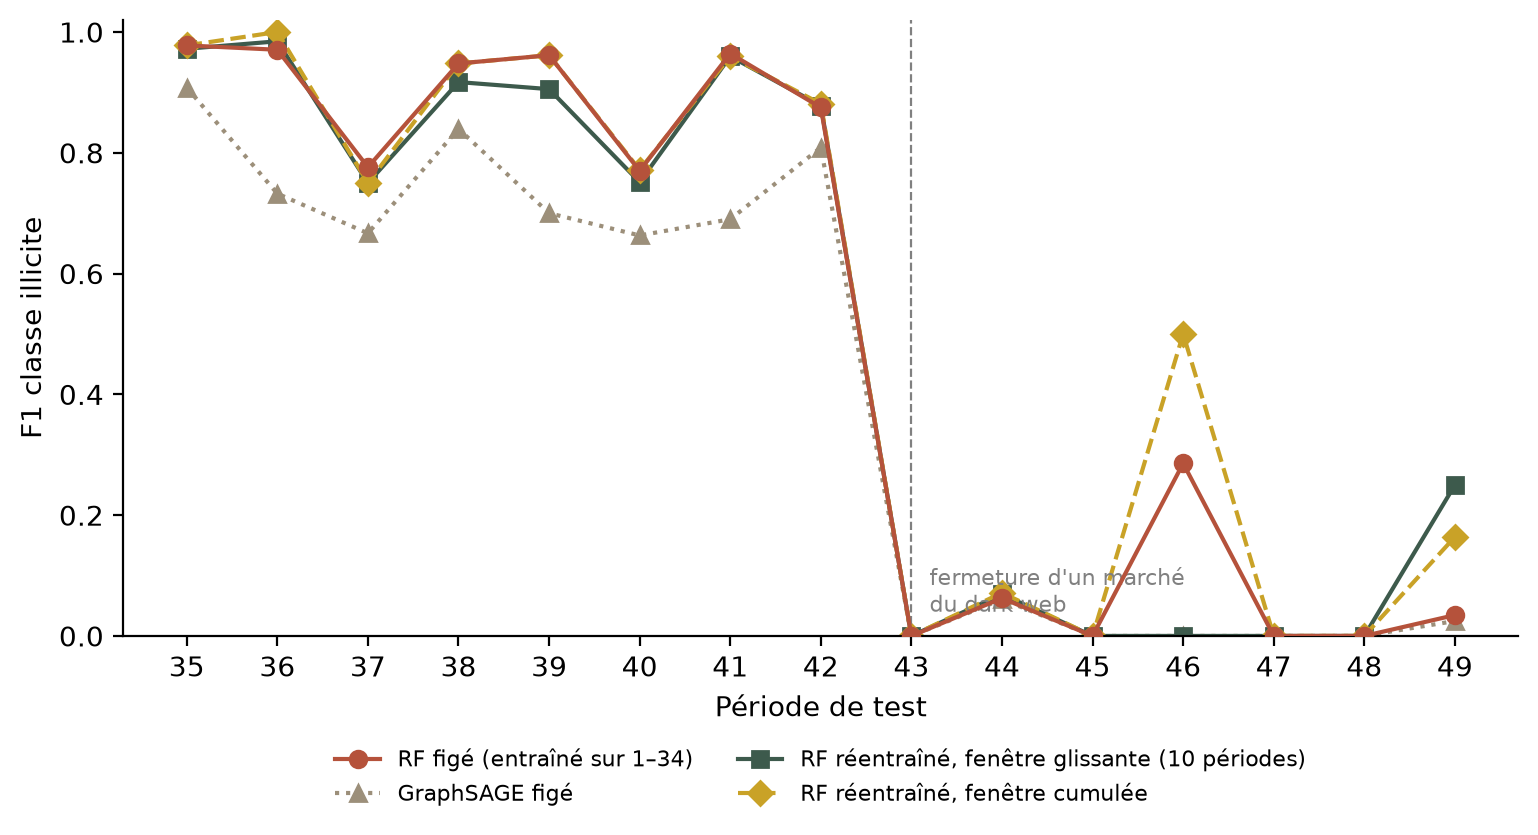
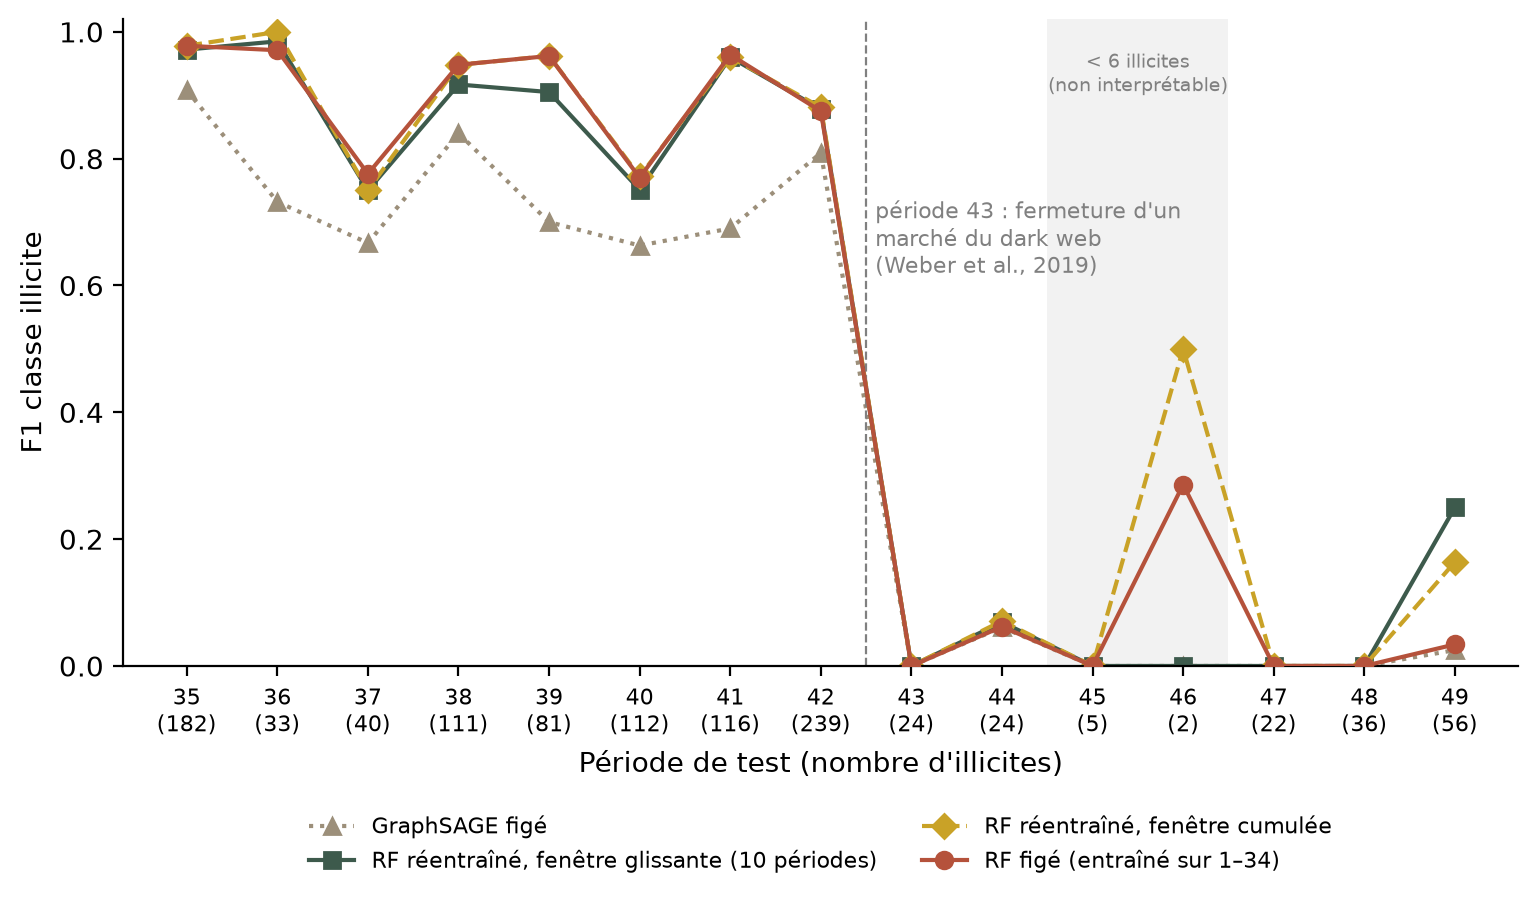
feat(m4): courbe de derive lisible (periodes 45-46 grisees, n illicites par periode)

diff --git a/src/m4/plot_drift.py b/src/m4/plot_drift.py
@@ -1,0 +1,36 @@
+"""Redessine results/m4_drift.png à partir de results/m4_drift.csv (sans relancer m4_gnn).
+
+    python -m src.m4.plot_drift        (depuis la racine du projet)
+"""
+import pathlib
+
+import matplotlib.pyplot as plt
+import pandas as pd
+
+RESULTS = pathlib.Path(__file__).resolve().parents[2] / "results"
+d = pd.read_csv(RESULTS / "m4_drift.csv")
+K = [c for c in d.columns if c.startswith("rf_fenetre_")][0].split("_")[-1]
+x = d.periode
+
+fig, ax = plt.subplots(figsize=(9, 4.2))
+small = d[d.n_illicites < 6].periode
+for p in small:                                   # périodes non interprétables
+    ax.axvspan(p - 0.5, p + 0.5, color="grey", alpha=0.10, lw=0)
+if len(small):
+    ax.text(small.mean(), 0.97, "< 6 illicites\n(non interprétable)", ha="center", va="top", fontsize=7, color="grey")
+
+ax.plot(x, d.graphsage_fige, marker="^", color="#9c8f7a", ls=":", label="GraphSAGE figé")
+ax.plot(x, d[f"rf_fenetre_{K}"], marker="s", color="#3d5a4c", label=f"RF réentraîné, fenêtre glissante ({K} périodes)")
+ax.plot(x, d.rf_cumule, marker="D", color="#c9a227", ls="--", label="RF réentraîné, fenêtre cumulée")
+ax.plot(x, d.rf_fige, marker="o", color="#b5523b", zorder=5, label="RF figé (entraîné sur 1–34)")
+
+ax.axvline(42.5, ls="--", c="grey", lw=0.8)
+ax.text(42.6, 0.62, "période 43 : fermeture d'un\nmarché du dark web\n(Weber et al., 2019)", fontsize=8, color="grey")
+
+ax.set_xlabel("Période de test (nombre d'illicites)")
+ax.set_xticks(x, [f"{p}\n({n})" for p, n in zip(x, d.n_illicites)], fontsize=8)
+ax.set_ylabel("F1 classe illicite"); ax.set_ylim(0, 1.02)
+ax.legend(frameon=False, fontsize=8, loc="upper center", bbox_to_anchor=(0.5, -0.2), ncol=2)
+ax.spines[["top", "right"]].set_visible(False)
+fig.savefig(RESULTS / "m4_drift.png", dpi=200, bbox_inches="tight")
+print("écrit :", RESULTS / "m4_drift.png")
